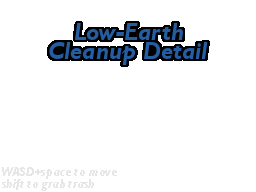
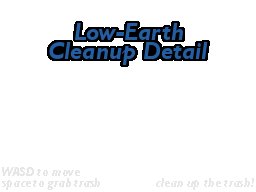
ghetto last minute fixes

Changed region(s): [[0.0, 0.875, 0.4688, 1.0]]

diff --git a/main.c b/main.c
@@ -507,16 +507,6 @@ void popUpdateEntities() {
 }
 
 void popEnd() {
-	for (int i = 0; i < gPopulation.size; i++) {
-		if (gPopulation.entities[i].type == ENTITY_TYPE_TRASH) {
-			trashEnd(&gPopulation.entities[i]);
-		} else if (gPopulation.entities[i].type == ENTITY_TYPE_DRONE) {
-			droneEnd(&gPopulation.entities[i]);
-		} else if (gPopulation.entities[i].type == ENTITY_TYPE_MINE) {
-			mineEnd(&gPopulation.entities[i]);
-		}
-	}
-	garbageDisposalEnd(&gPopulation.entities[gGarbageDisposal]);
 	free(gPopulation.entities);
 }
 
@@ -553,7 +543,7 @@ void playerUpdate() {
 
 		// Calculate acceleration vector
 		Vector acceleration = {};
-		if (juKeyboardGetKey(SDL_SCANCODE_SPACE)) {
+		if (juKeyboardGetKey(SDL_SCANCODE_W)) {
 			acceleration.magnitude = PLAYER_BASE_ACCELERATION;
 			acceleration.direction = gPlayer.player.direction;
 		} else {
@@ -562,7 +552,7 @@ void playerUpdate() {
 		}
 
 		// Check if the player grabs some trash
-		if (juKeyboardGetKeyPressed(SDL_SCANCODE_LSHIFT)) {
+		if (juKeyboardGetKeyPressed(SDL_SCANCODE_SPACE)) {
 			for (int i = 0; i < gPopulation.size && gPlayer.player.grabbedTrash == NO_TRASH; i++) {
 				if (gPopulation.entities[i].type == ENTITY_TYPE_TRASH &&
 					juPointDistance(gPlayer.physics.x, gPlayer.physics.y, gPopulation.entities[i].physics.x,
@@ -571,7 +561,7 @@ void playerUpdate() {
 					gPopulation.entities[i].trash.grabbed = true;
 				}
 			}
-		} else if (juKeyboardGetKeyReleased(SDL_SCANCODE_LSHIFT) && gPlayer.player.grabbedTrash != NO_TRASH) {
+		} else if (juKeyboardGetKeyReleased(SDL_SCANCODE_SPACE) && gPlayer.player.grabbedTrash != NO_TRASH) {
 			Entity *trash = &gPopulation.entities[gPlayer.player.grabbedTrash];
 			trash->physics.velocity.direction = gPlayer.player.direction;
 			trash->physics.velocity.magnitude = PLAYER_BASE_TRASH_THROW_SPEED;
@@ -601,7 +591,7 @@ void playerUpdate() {
 
 void playerDraw() {
 	VK2DTexture player;
-	if (juKeyboardGetKey(SDL_SCANCODE_SPACE))
+	if (juKeyboardGetKey(SDL_SCANCODE_W))
 		player = gAssets->texPlayerThruster;
 	else
 		player = gAssets->texPlayer;
@@ -899,6 +889,7 @@ int main() {
 		while (SDL_PollEvent(&e)) {
 			if (e.type == SDL_QUIT) {
 				stopRunning = true;
+				abort();
 			}
 		}
 
@@ -939,6 +930,7 @@ int main() {
 				gameStart();
 			} else if (state == GAMESTATE_QUIT){
 				stopRunning = true;
+				abort();
 				gameEnd();
 			}
 		} else if (state == GAMESTATE_GAME) {
@@ -948,6 +940,7 @@ int main() {
 				menuStart();
 			} else if (state == GAMESTATE_QUIT){
 				stopRunning = true;
+				abort();
 				gameEnd();
 			}
 		}
